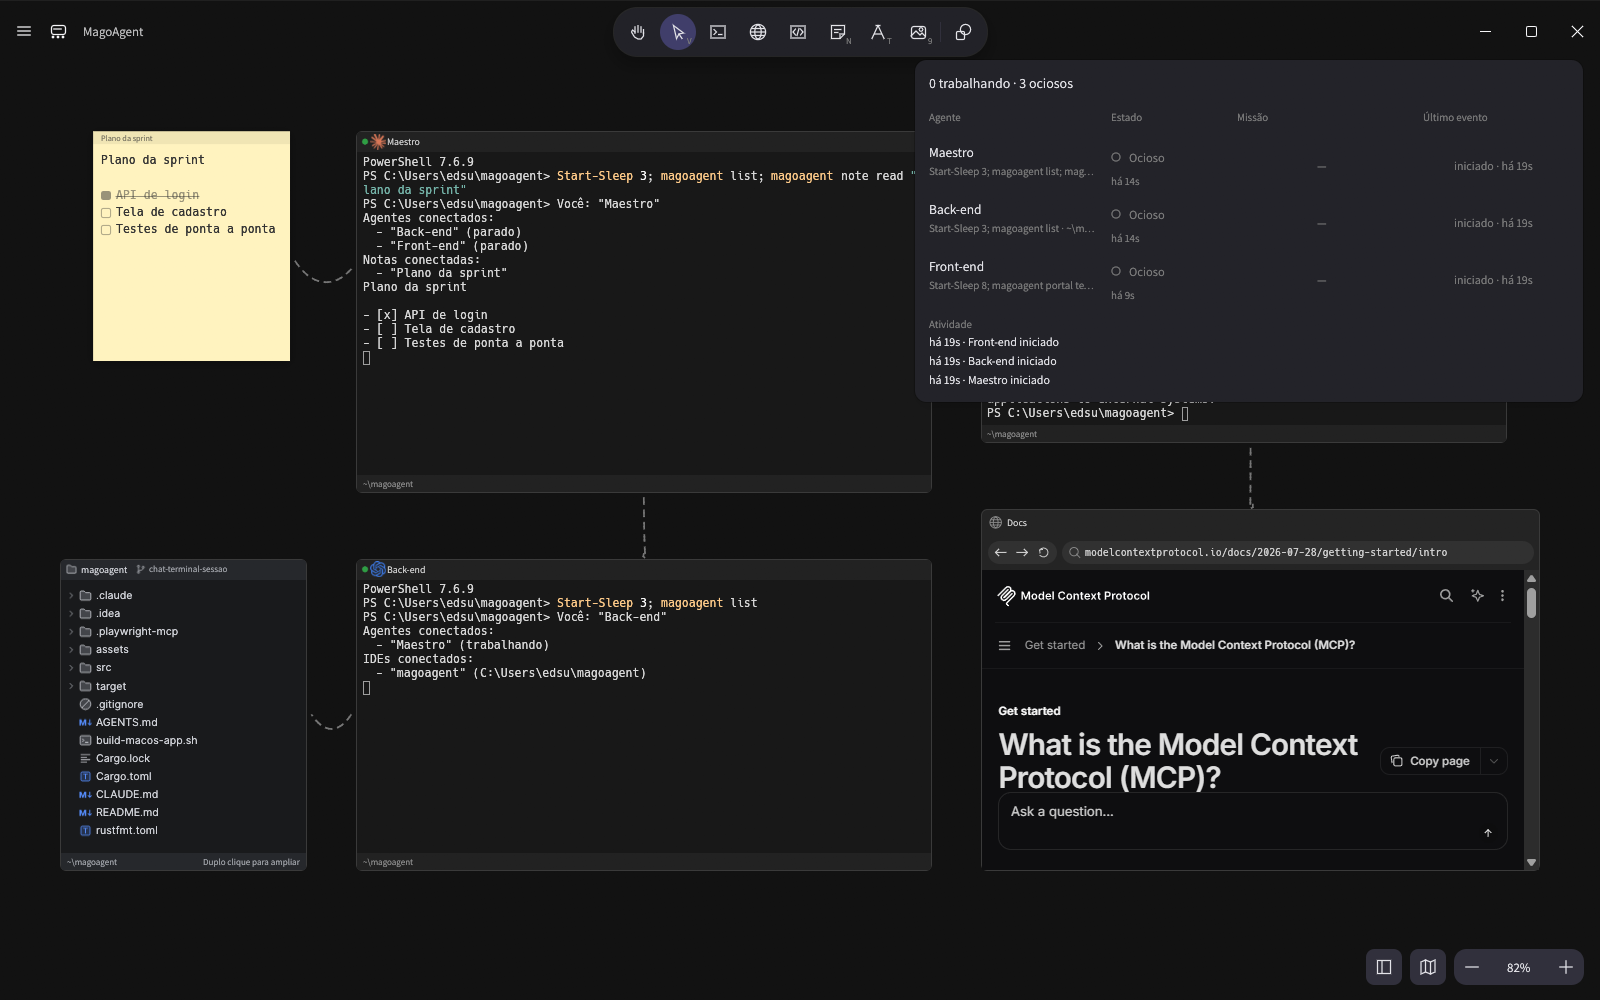
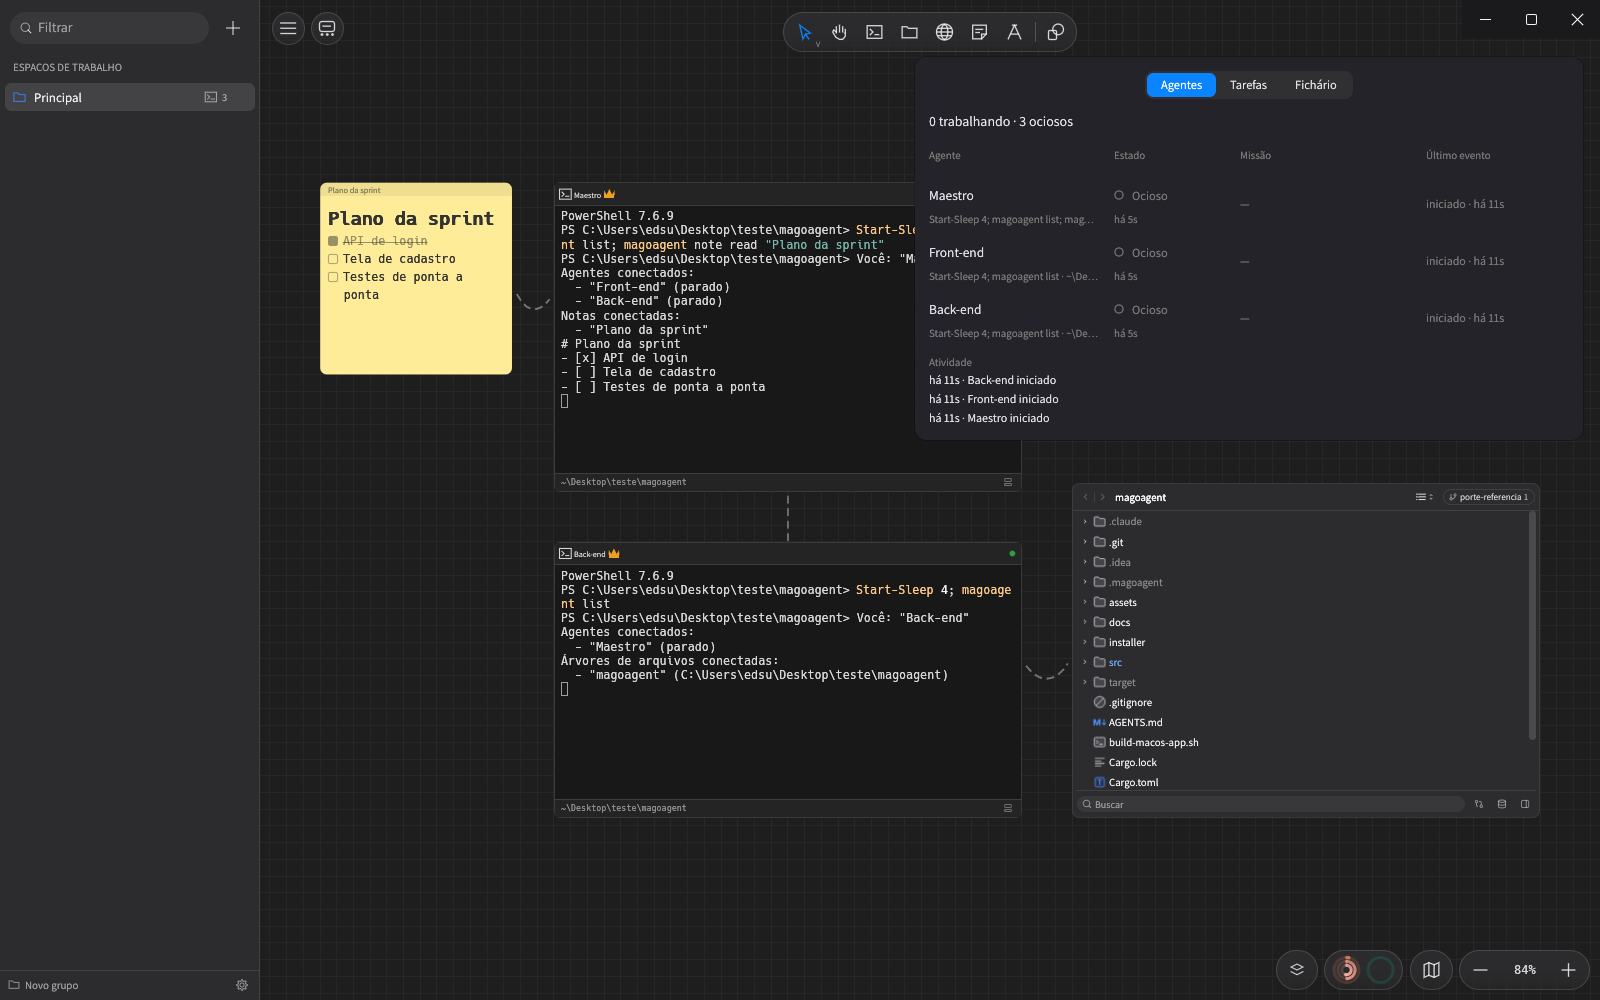
README: prints novos do canvas, do painel de agentes e da árvore de arquivos no lugar do IDE

diff --git a/README.md b/README.md
@@ -6,11 +6,10 @@ notas, páginas e projetos de que eles precisam, puxando uma corda. Eles enxerga
 conversam entre si, recrutam ajudantes e avisam quando precisam de você. O app é nativo em Rust
 (`eframe/egui`), sem Electron, e roda em macOS, Windows e Linux.
 
-![O canvas: um Maestro ligado ao plano da sprint, a dois agentes, a um IDE e a uma página](docs/canvas.png)
+![O canvas: um Maestro ligado ao plano da sprint e a dois agentes; o Back-end, à árvore de arquivos do projeto](docs/canvas.png)
 
 *O Maestro lê o plano da sprint (`magoagent note read`) e vê quem está ligado a ele
-(`magoagent list`). O Front-end lê a página do portal ligado a ele (`magoagent portal text`), e o
-Back-end enxerga o IDE do projeto.*
+(`magoagent list`). O Back-end enxerga a árvore de arquivos do projeto ligada a ele.*
 
 ## A ideia
 
@@ -44,19 +43,18 @@ Um agente sozinho num terminal não sabe dos outros. No MagoAgent o canvas é o 
   ainda não abre). Quando o agente clica ou digita na página, o cursor dele aparece lá com o nome
   do terminal. Com o lápis da barra você circula algo na página, escreve o que mudar, e o agente
   ligado recebe o endereço, a região, os elementos e o comentário.
-- **IDE:** uma pasta vira um card com a árvore e a branch, e o clique duplo abre o editor ampliado.
-  - **Edição:** abas, realce de sintaxe, localizar e pesquisar em tudo (Shift duas vezes).
-  - **Git:** diff, commit, push e pull.
-  - **Linguagem:** com um servidor de linguagem instalado, ir para a declaração, usos e documentação.
-  - **Banco de dados:** os SQLite do projeto num painel próprio.
-  - **Claude Code:** um terminal ligado ao IDE conecta o Claude Code a ele. As mudanças que ele
-    propõe abrem como diff para aceitar, rejeitar ou comentar; o comentário volta ao agente com o
-    arquivo e as linhas.
+- **Árvore de arquivos:** uma pasta vira um card com a árvore, o ramo do git e um painel de código ao lado.
+  - **Código:** abas, realce de sintaxe, usos e autor sobre cada declaração, Ctrl+clique e
+    Localizar nos arquivos (Ctrl+Shift+F).
+  - **Git:** os arquivos alterados, o diff contra o HEAD (Ctrl+D), o autor de cada linha e a troca de ramo.
+  - **Banco de dados:** SQLite, MySQL, Postgres, Mongo e Redis num painel próprio.
+  - **Claude Code:** o botão da pílula abre um terminal com o Claude Code na pasta, já ligado à
+    árvore; Vincular liga a árvore a um terminal ou chat que já existe.
 - **Quadro branco:** formas com traço à mão, setas presas às formas, texto, imagens, quadros,
   desenho livre, bloqueio, camadas, minimapa e exportação PNG/SVG. É onde você desenha o plano e o
   agente desenha a resposta.
 
-![O IDE ampliado (Ctrl/⌘+3)](docs/ide.png)
+![A árvore de arquivos com o painel de código aberto](docs/arvore.png)
 
 ## Três telas e a voz
 
